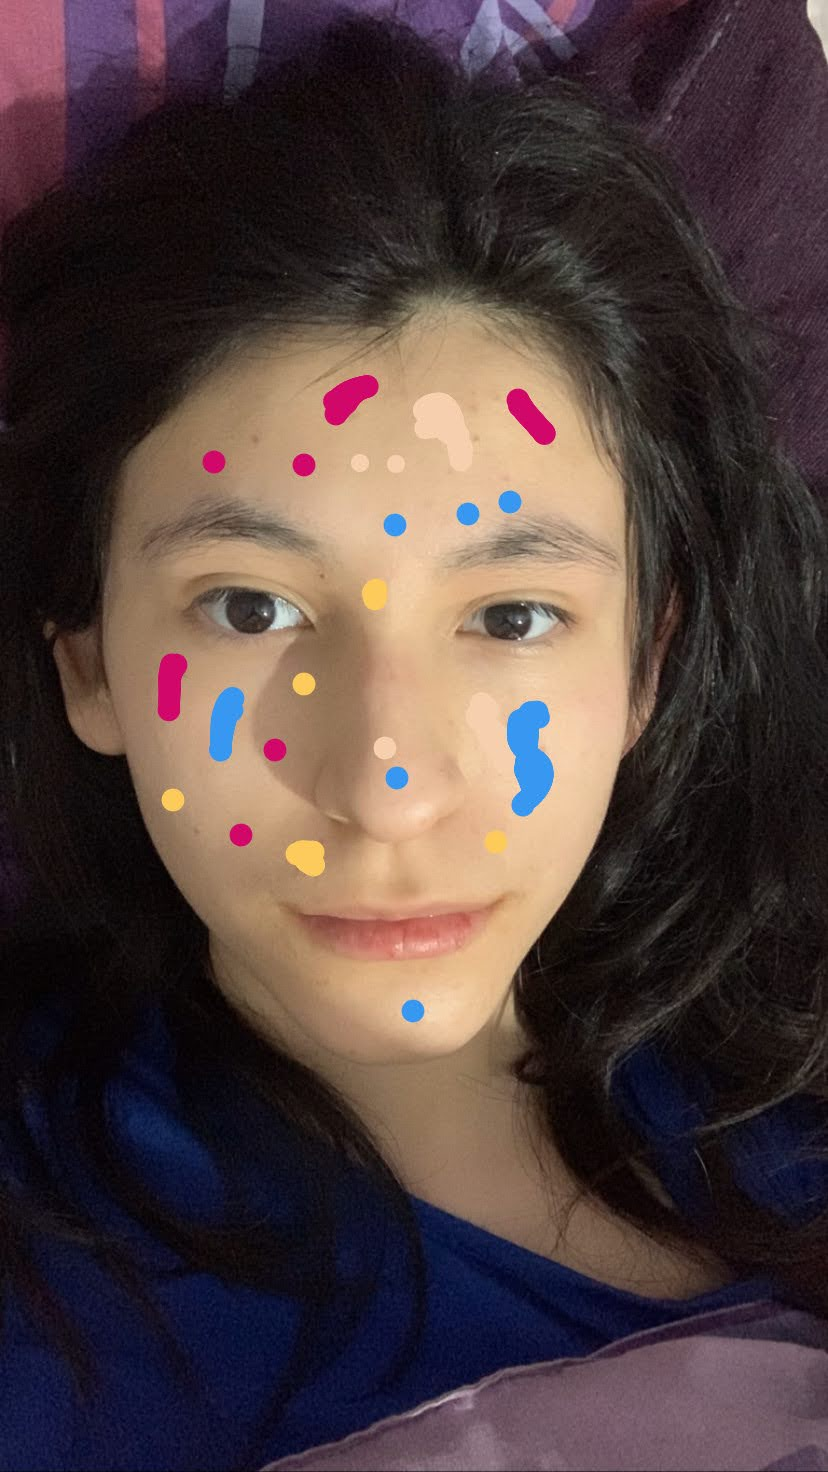
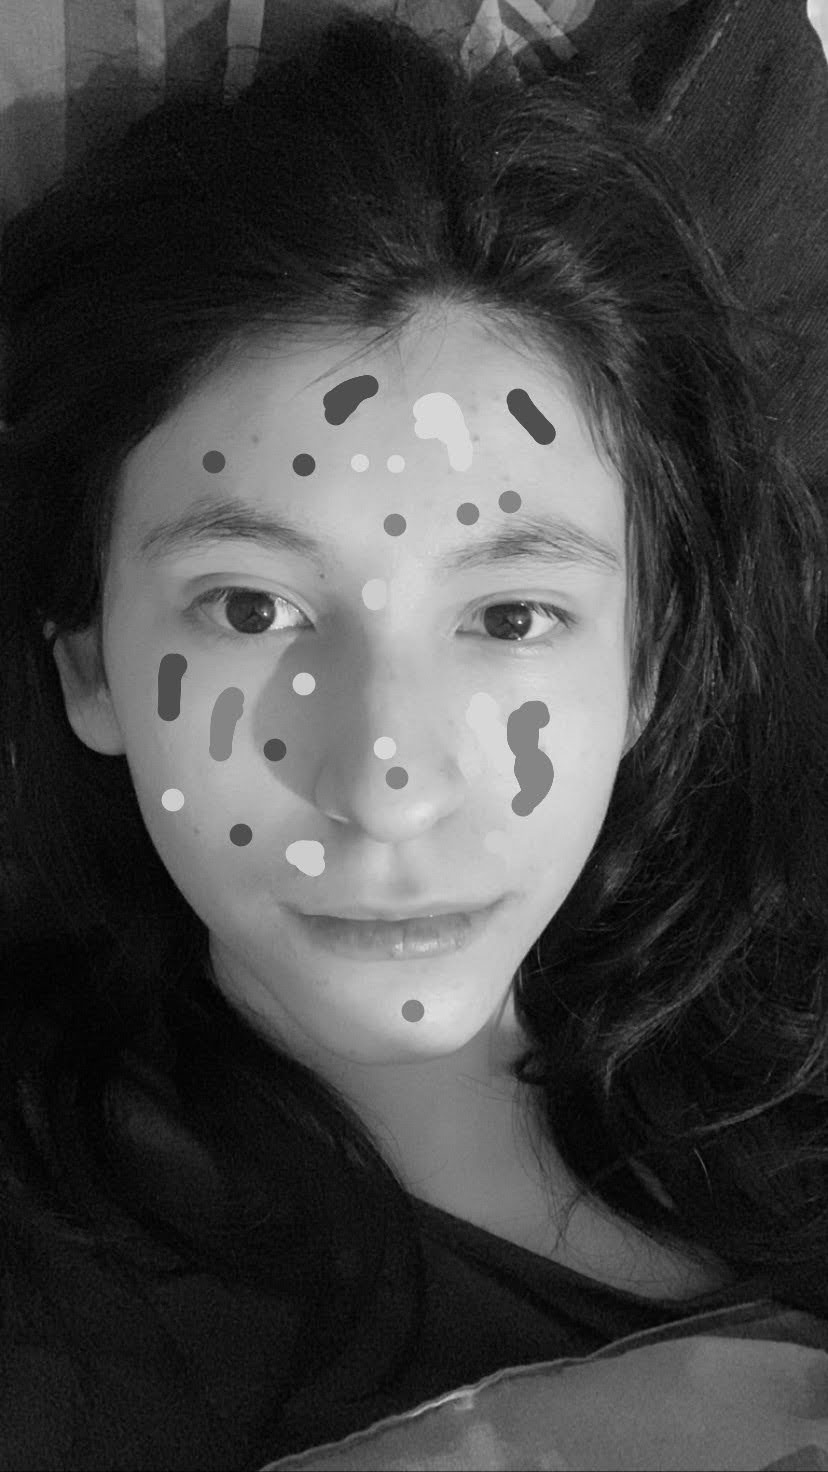
Add adaptive threshold

diff --git a/main.py b/main.py
@@ -3,30 +3,35 @@ import numpy
 
 from fractions import Fraction
 
-face_cascade = cv2.CascadeClassifier("haarcascades/haarcascade_frontalface_default.xml")
-eye_cascade = cv2.CascadeClassifier("haarcascades/haarcascade_eye.xml")
 
-image = cv2.imread("samples/3 (4, 3).jpg")
-ratio = Fraction(image.shape[1], image.shape[0])
-image = cv2.resize(image, (640, int(640 / ratio.numerator * ratio.denominator)))
-image = cv2.cvtColor(image, cv2.COLOR_BGR2GRAY)
-
-faces_rect = face_cascade.detectMultiScale(image, 1.1, 5)
-eyes_rect = eye_cascade.detectMultiScale(image, 1.1, 5)
-
-image = cv2.cvtColor(image, cv2.COLOR_GRAY2BGR)
-
-faces_segmentation = []
-for face_rect in faces_rect:
+def get_segmentation(image, rect):
     background_model = numpy.zeros((1, 65), numpy.float64)
     foreground_model = numpy.zeros((1, 65), numpy.float64)
     mask = numpy.zeros(image.shape[:2], numpy.uint8)
-    cv2.grabCut(image, mask, face_rect, background_model, foreground_model, 5, cv2.GC_INIT_WITH_RECT)
+    cv2.grabCut(image, mask, rect, background_model, foreground_model, 5, cv2.GC_INIT_WITH_RECT)
     mask2 = numpy.where((mask == 2) | (mask == 0), 0, 1).astype("uint8")
-    segmentation = image * mask2[:, :, numpy.newaxis]
-    faces_segmentation.append(segmentation)
+    return cv2.cvtColor(image * mask2[:, :, numpy.newaxis], cv2.COLOR_BGR2GRAY)
 
-for i, segmentation in enumerate(faces_segmentation):
-    segmentation = numpy.where(segmentation == (0, 0, 0), (0, 255, 0), segmentation).astype("uint8")
-    cv2.imwrite(f"segmentation {i}.jpg", segmentation)
 
+# Initial image processing
+image = cv2.imread("samples/6 (3, 4).jpg")
+ratio = Fraction(image.shape[1], image.shape[0])
+image = cv2.resize(image, (480, int(480 / ratio.numerator * ratio.denominator)))
+
+# Face tracking and segmentation
+face_cascade = cv2.CascadeClassifier("haarcascades/haarcascade_frontalface_default.xml")
+faces_rect = face_cascade.detectMultiScale(image, 1.1, 5)
+faces_segmentation = tuple(get_segmentation(image, rect) for rect in faces_rect)
+faces_segmentation_blur = tuple(cv2.GaussianBlur(segmentation, (5, 5), 0) for segmentation in faces_segmentation)
+faces_threshold = tuple(
+    cv2.adaptiveThreshold(segmentation, 255, cv2.ADAPTIVE_THRESH_GAUSSIAN_C, cv2.THRESH_BINARY_INV, 19, 5)
+    for segmentation in faces_segmentation_blur
+)
+
+output = []
+for i, threshold in enumerate(faces_threshold):
+    x, y, w, h = faces_rect[i]
+    output = numpy.where(cv2.cvtColor(threshold, cv2.COLOR_GRAY2BGR) != 0, (0, 0, 255), image).astype("uint8")
+    cv2.imshow(f"output {i}.jpg", output)
+
+cv2.waitKey(0)
